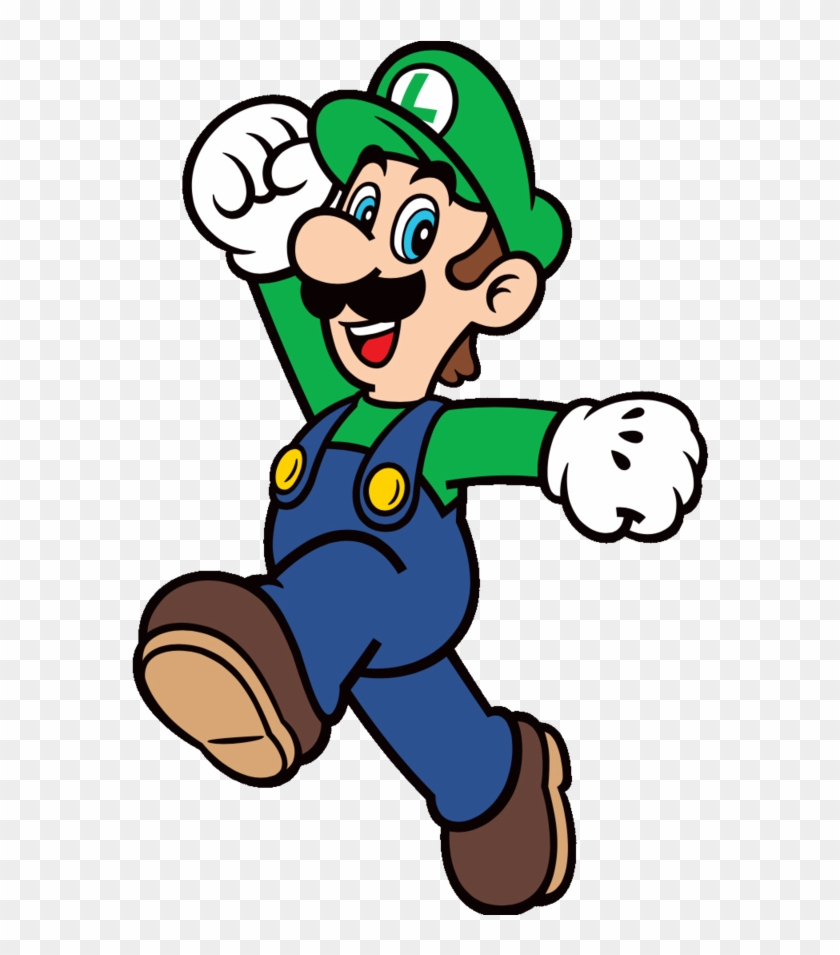
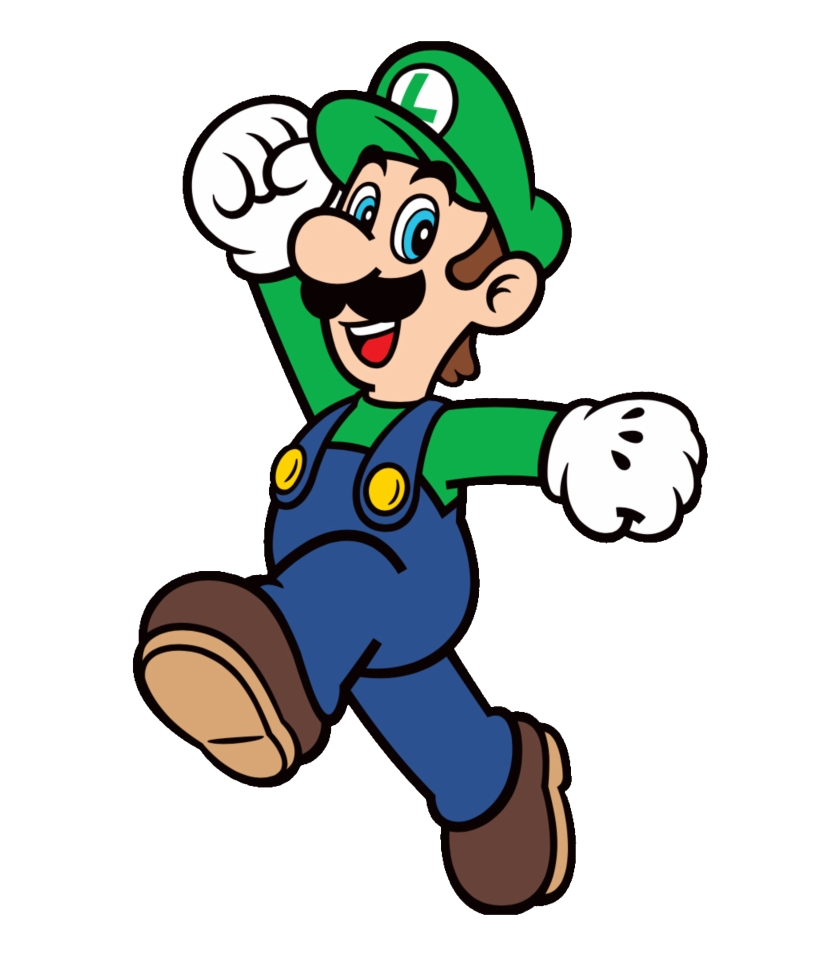
Transparent Background and Responsive Design for Phone Players

Changed region(s): [[0.5262, 0.3948, 0.5571, 0.4251]]

diff --git a/index.html b/index.html
@@ -1,66 +1,71 @@
 <!DOCTYPE html>
 <html lang="en">
-  <head>
-    <meta charset="UTF-8" />
-    <meta name="viewport" content="width=device-width, initial-scale=1.0" />
-    <link rel="stylesheet" href="./style.css" />
-    <link rel="shortcut icon" href="img/favicon.ico" />
-    <title>Memory Game</title>
-  </head>
 
-  <body>
-    <h1>MEMORY GAME</h1>
+<head>
+  <meta charset="UTF-8" />
+  <meta name="viewport" content="width=device-width, initial-scale=1.0" />
+  <link rel="stylesheet" href="./style.css" />
+  <link rel="shortcut icon" href="img/favicon.ico" />
+  <title>Memory Game</title>
+</head>
 
-    <main class="memory-game">
-      <div class="card" data-card="bowser">
-        <img class="card-front" src="./img/bowser.jpg" alt="Face da carta" />
-        <img class="card-back" src="./img/box.png" alt="Verso da carta" />
-      </div>
-      <div class="card" data-card="luigi">
-        <img class="card-front" src="./img/luigi.png" alt="Face da carta" />
-        <img class="card-back" src="./img/box.png" alt="Verso da carta" />
-      </div>
-      <div class="card" data-card="mario">
-        <img class="card-front" src="./img/mario.png" alt="Face da carta" />
-        <img class="card-back" src="./img/box.png" alt="Verso da carta" />
-      </div>
-      <div class="card" data-card="peach">
-        <img class="card-front" src="./img/peach.png" alt="Face da carta" />
-        <img class="card-back" src="./img/box.png" alt="Verso da carta" />
-      </div>
-      <div class="card" data-card="toad">
-        <img class="card-front" src="./img/toad.png" alt="Face da carta" />
-        <img class="card-back" src="./img/box.png" alt="Verso da carta" />
-      </div>
-      <div class="card" data-card="yoshi">
-        <img class="card-front" src="./img/yoshi.png" alt="Face da carta" />
-        <img class="card-back" src="./img/box.png" alt="Verso da carta" />
-      </div>
-      <div class="card" data-card="bowser">
-        <img class="card-front" src="./img/bowser.jpg" alt="Face da carta" />
-        <img class="card-back" src="./img/box.png" alt="Verso da carta" />
-      </div>
-      <div class="card" data-card="luigi">
-        <img class="card-front" src="./img/luigi.png" alt="Face da carta" />
-        <img class="card-back" src="./img/box.png" alt="Verso da carta" />
-      </div>
-      <div class="card" data-card="mario">
-        <img class="card-front" src="./img/mario.png" alt="Face da carta" />
-        <img class="card-back" src="./img/box.png" alt="Verso da carta" />
-      </div>
-      <div class="card" data-card="peach">
-        <img class="card-front" src="./img/peach.png" alt="Face da carta" />
-        <img class="card-back" src="./img/box.png" alt="Verso da carta" />
-      </div>
-      <div class="card" data-card="toad">
-        <img class="card-front" src="./img/toad.png" alt="Face da carta" />
-        <img class="card-back" src="./img/box.png" alt="Verso da carta" />
-      </div>
-      <div class="card" data-card="yoshi">
-        <img class="card-front" src="./img/yoshi.png" alt="Face da carta" />
-        <img class="card-back" src="./img/box.png" alt="Verso da carta" />
-      </div>
-    </main>
-    <script src="./script.js"></script>
-  </body>
+<body>
+  <div class="container">
+    <div class="container-title">
+      <h1>MEMORY GAME</h1>
+      <main class="memory-game">
+        <div class="card" data-card="bowser">
+          <img class="card-front" src="./img/bowser.png" alt="Face da carta" />
+          <img class="card-back" src="./img/box.png" alt="Verso da carta" />
+        </div>
+        <div class="card" data-card="luigi">
+          <img class="card-front" src="./img/luigi.png" alt="Face da carta" />
+          <img class="card-back" src="./img/box.png" alt="Verso da carta" />
+        </div>
+        <div class="card" data-card="mario">
+          <img class="card-front" src="./img/mario.png" alt="Face da carta" />
+          <img class="card-back" src="./img/box.png" alt="Verso da carta" />
+        </div>
+        <div class="card" data-card="peach">
+          <img class="card-front" src="./img/peach.png" alt="Face da carta" />
+          <img class="card-back" src="./img/box.png" alt="Verso da carta" />
+        </div>
+        <div class="card" data-card="toad">
+          <img class="card-front" src="./img/toad.png" alt="Face da carta" />
+          <img class="card-back" src="./img/box.png" alt="Verso da carta" />
+        </div>
+        <div class="card" data-card="yoshi">
+          <img class="card-front" src="./img/yoshi.png" alt="Face da carta" />
+          <img class="card-back" src="./img/box.png" alt="Verso da carta" />
+        </div>
+        <div class="card" data-card="bowser">
+          <img class="card-front" src="./img/bowser.png" alt="Face da carta" />
+          <img class="card-back" src="./img/box.png" alt="Verso da carta" />
+        </div>
+        <div class="card" data-card="luigi">
+          <img class="card-front" src="./img/luigi.png" alt="Face da carta" />
+          <img class="card-back" src="./img/box.png" alt="Verso da carta" />
+        </div>
+        <div class="card" data-card="mario">
+          <img class="card-front" src="./img/mario.png" alt="Face da carta" />
+          <img class="card-back" src="./img/box.png" alt="Verso da carta" />
+        </div>
+        <div class="card" data-card="peach">
+          <img class="card-front" src="./img/peach.png" alt="Face da carta" />
+          <img class="card-back" src="./img/box.png" alt="Verso da carta" />
+        </div>
+        <div class="card" data-card="toad">
+          <img class="card-front" src="./img/toad.png" alt="Face da carta" />
+          <img class="card-back" src="./img/box.png" alt="Verso da carta" />
+        </div>
+        <div class="card" data-card="yoshi">
+          <img class="card-front" src="./img/yoshi.png" alt="Face da carta" />
+          <img class="card-back" src="./img/box.png" alt="Verso da carta" />
+        </div>
+      </main>
+    </div>
+  </div>
+  <script src="./script.js"></script>
+</body>
+
 </html>

diff --git a/style.css b/style.css
@@ -7,19 +7,32 @@
 }
 
 body {
-  height: 100vh;
+  height: 100%;
+  margin: 0px;
+  background-color: #36bdbd;
+  color: white;
+  font-family: "Varela Round";
+
   display: flex;
   flex-direction: column;
   justify-content: center;
   align-items: center;
-  background-color: #36bdbd;
-  color: white;
-  font-family: "Varela Round";
+}
+
+.container {
+  width: 100vw;
+  height: 100vh;
+
+  display: flex;
+  flex-direction: column;
+  justify-content: center;
+  align-items: center;
 }
 
 h1 {
   font-size: 40px;
   margin-top: 30px;
+  text-align: center;
 }
 
 .memory-game {
@@ -66,4 +79,34 @@ h1 {
 /* Flip Card Animation */
 .card.flip {
   transform: rotateY(180deg);
+}
+
+@media only screen and (min-width: 350px) and (max-width: 549px) {
+  h1 {
+    font-size: 30px;
+  }
+
+  .container-title {
+    width: 100%;
+  }
+
+  .memory-game {
+    width: 100%;
+    height: 400px;
+  }
+}
+
+@media only screen and (min-width: 280px) and (max-width: 349px) {
+  h1 {
+    font-size: 30px;
+  }
+
+  .container-title {
+    width: 100%;
+  }
+
+  .memory-game {
+    width: 100%;
+    height: 280px;
+  }
 }
